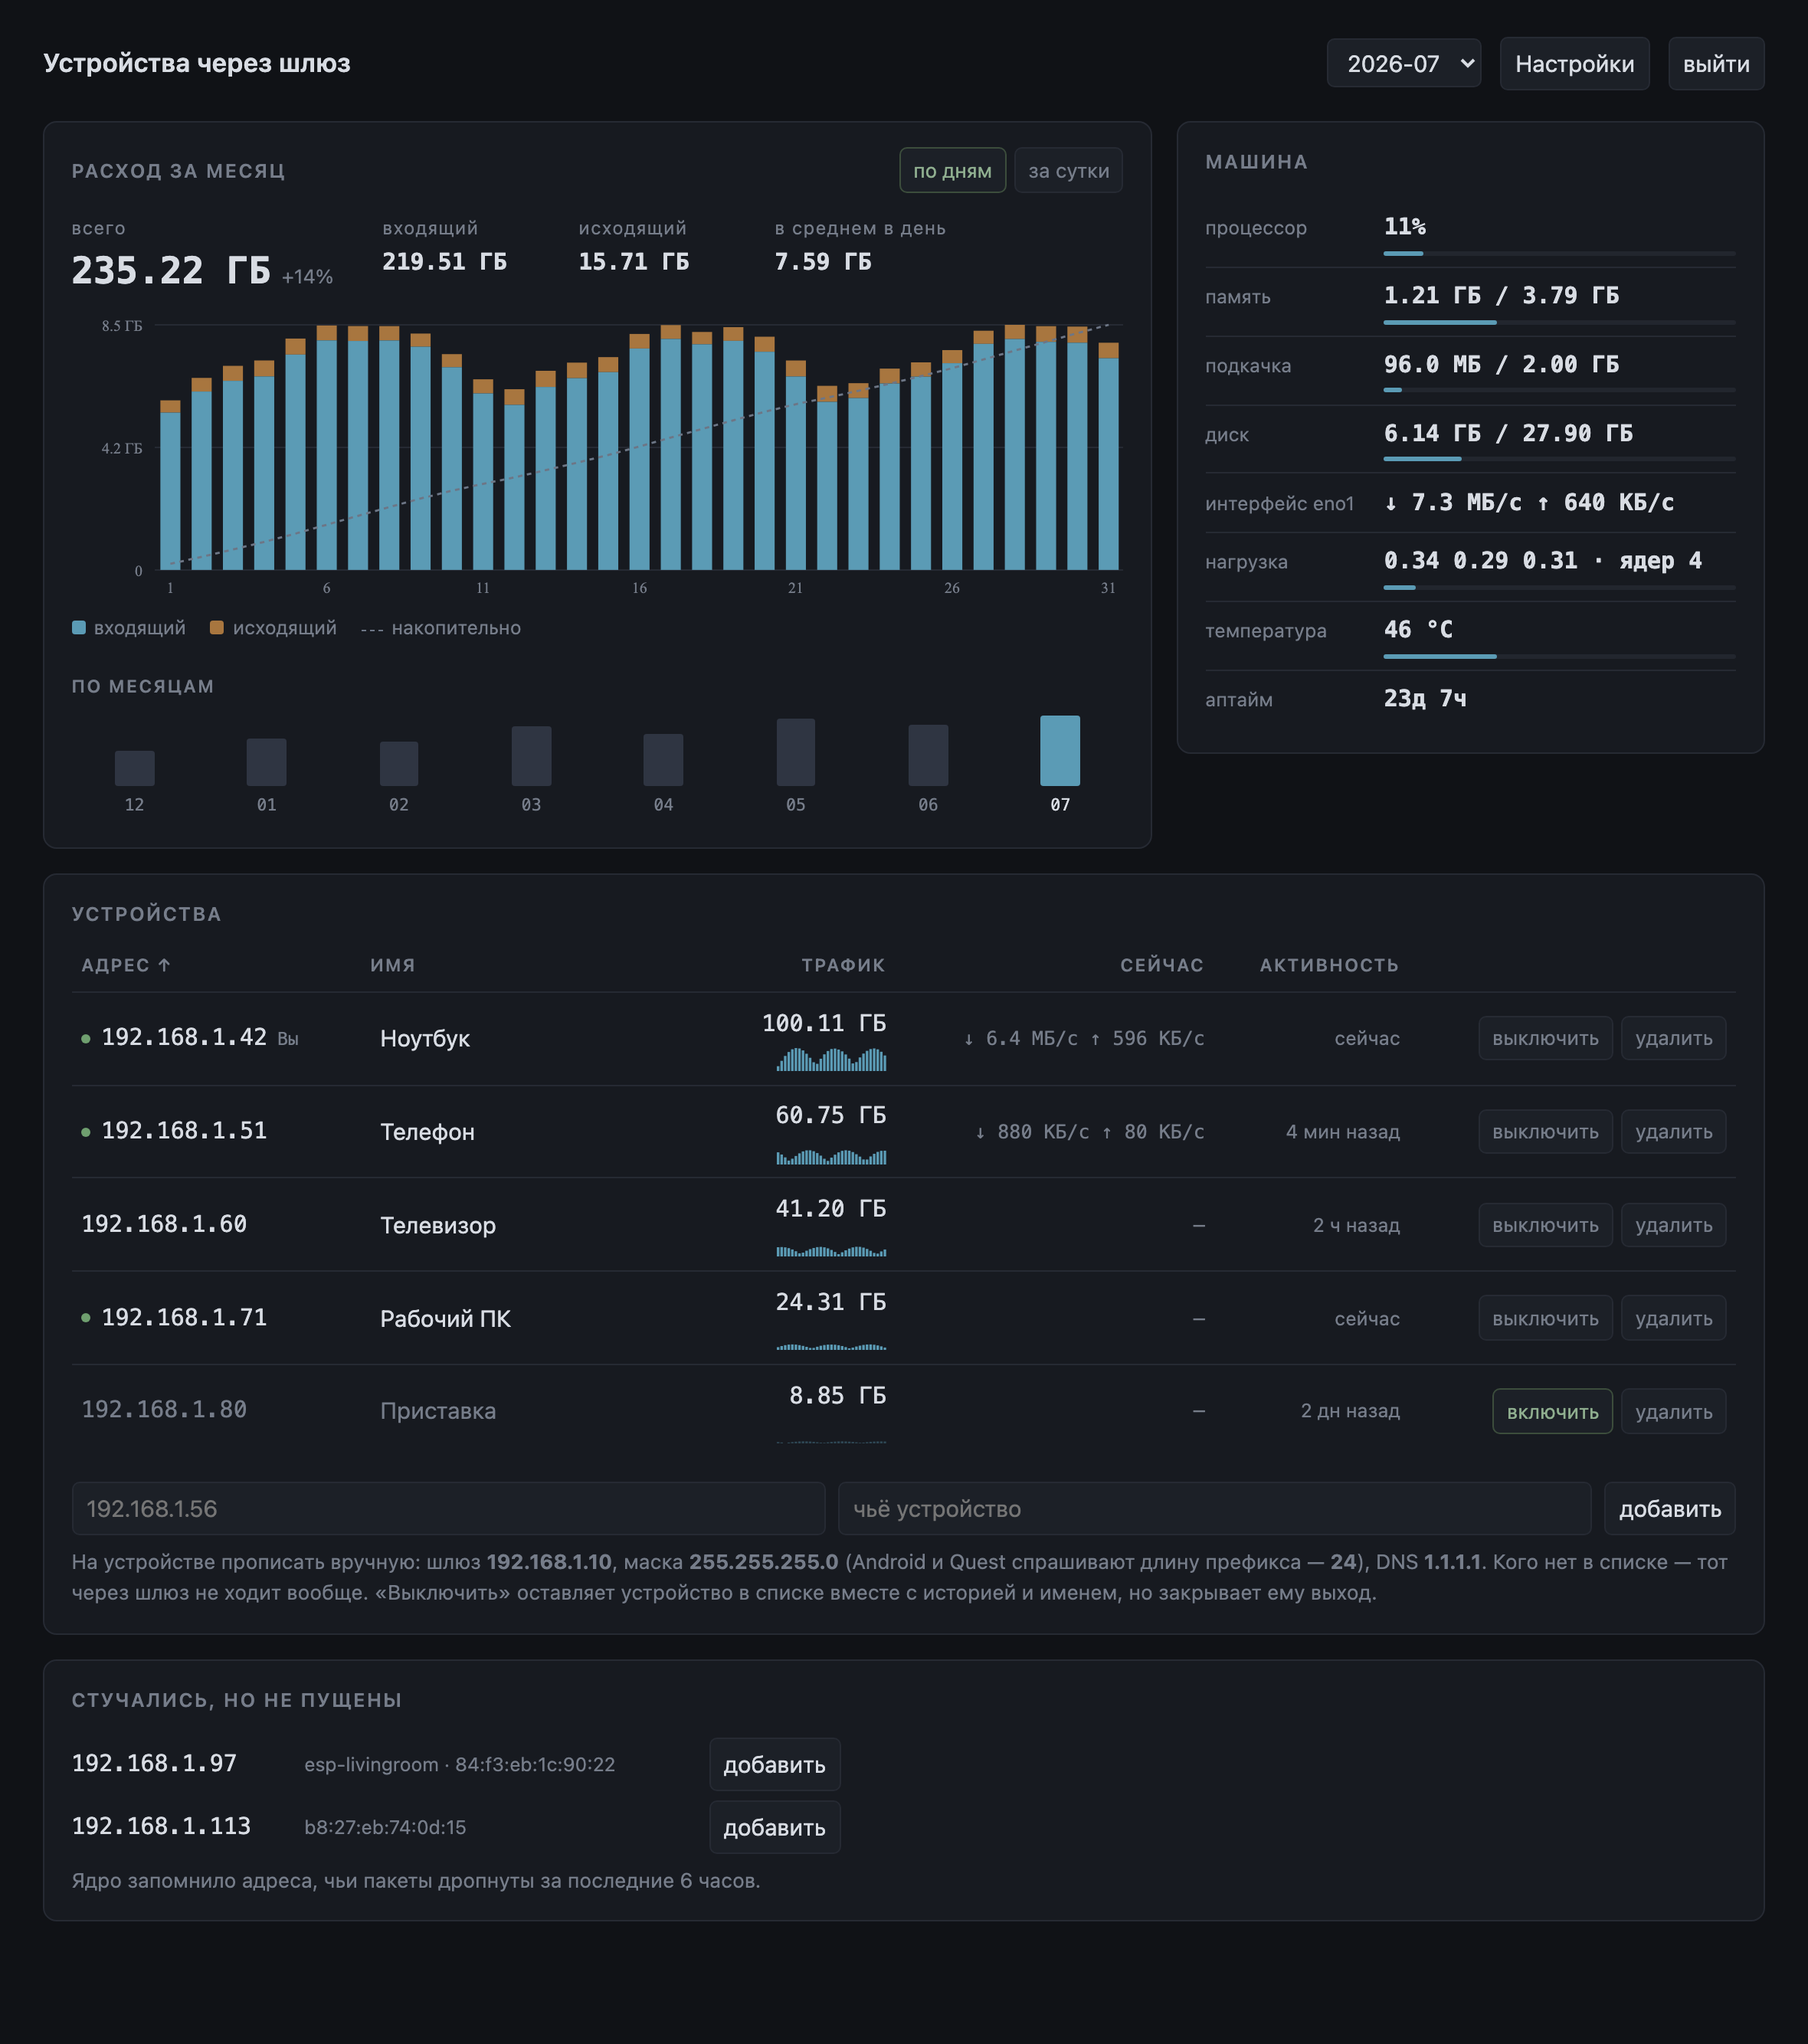
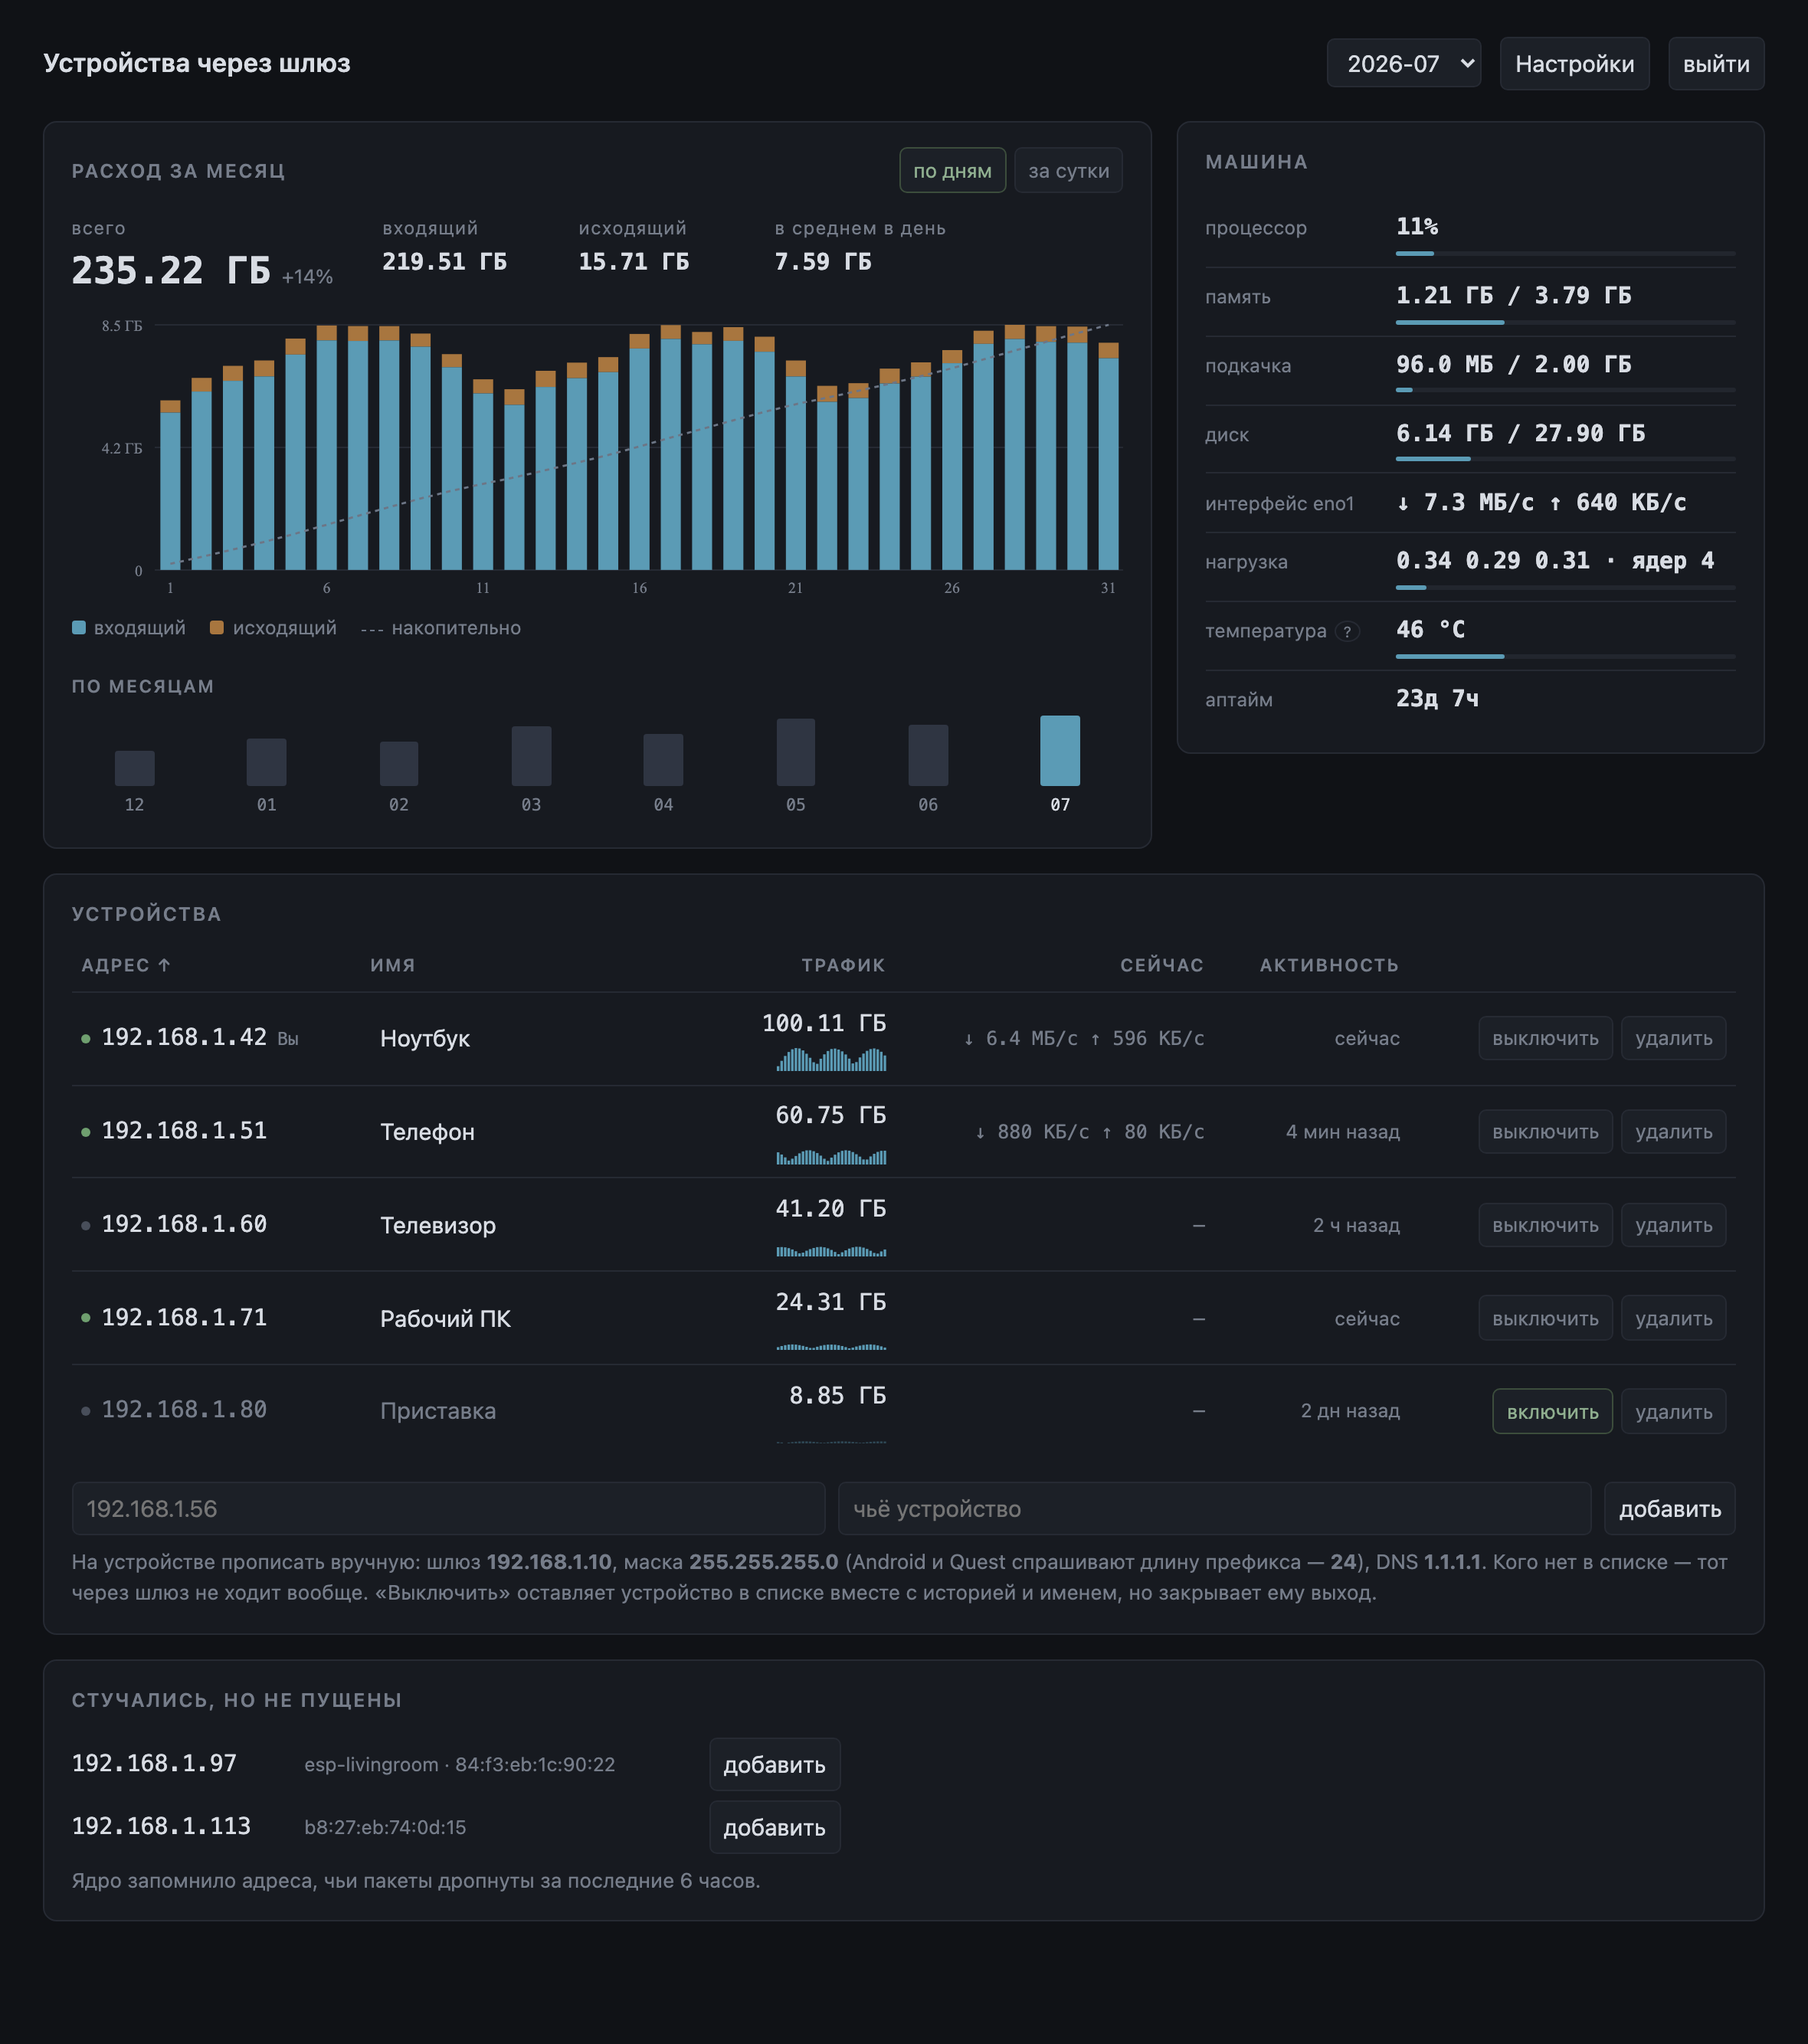
Скорость: целые байты в секунду. Температура: панель называет датчик. Кружок у всех устройств

Changed region(s): [[0.7733, 0.1244, 0.9589, 0.3111], [0.0619, 0.6844, 0.1547, 0.7155], [0.0619, 0.5911, 0.1547, 0.6222]]

diff --git a/panel.py b/panel.py
@@ -194,6 +194,9 @@ STRINGS = {
         "sUptime": "аптайм",
         "cores": "ядер {n}",
         "sysNone": "эта система не отдаёт метрики",
+        "tempWhat": "Датчик {n} — самый горячий из тех, что ядро показывает "
+                    "в /sys/class/thermal. Их несколько, и меряют они разное: "
+                    "пакет процессора, чипсет, диск.",
         "perSec": "/с",
         "dShort": "д",
         "hShort": "ч",
@@ -301,6 +304,9 @@ STRINGS = {
         "sUptime": "uptime",
         "cores": "{n} cores",
         "sysNone": "this system exposes no metrics",
+        "tempWhat": "Sensor {n} — the warmest of the ones the kernel exposes in "
+                    "/sys/class/thermal. There are several, and they measure "
+                    "different things: the processor package, the chipset, a disk.",
         "perSec": "/s",
         "dShort": "d",
         "hShort": "h",
@@ -622,7 +628,9 @@ def rates(moved, devs, now):
     _rate.clear()
     for d in devs:
         u, dn = _pend.get(d["ip"], (0, 0))
-        _rate[d["ip"]] = [u / dt, dn / dt]
+        # Whole bytes: a rate is a measurement over a ragged window, and the
+        # fraction is noise the page would faithfully print to ten decimals.
+        _rate[d["ip"]] = [round(u / dt), round(dn / dt)]
     _pend.clear()
 
 
@@ -771,21 +779,27 @@ def parse_meminfo(text):
 
 
 def temp_c(root="/sys/class/thermal"):
-    """The warmest sensor the kernel exposes, in °C. None when there are none.
+    """The warmest sensor the kernel exposes: (°C, what it calls itself).
 
-    Zones are milli-degrees and a machine has several; the hottest is the one
-    worth showing. Absurd readings are dropped — an empty or disabled zone
-    happily reports 0 or −273.
+    Zones are milli-degrees and a machine has several, measuring different
+    things — the processor package, the chipset, an NVMe drive. The hottest is
+    the one worth showing, but on its own it is an anonymous number, so the
+    zone's `type` goes with it and the panel names the sensor it picked.
+    Absurd readings are dropped: an empty or disabled zone happily reports 0
+    or −273.
     """
     best = None
     try:
-        zones = os.listdir(root)
+        zones = sorted(os.listdir(root))
     except OSError:
         return None
     for z in zones:
         t = _num(_read(f"{root}/{z}/temp"))
-        if t is not None and 0 < t / 1000 < 150:
-            best = max(best or 0, t / 1000)
+        if t is None or not 0 < t / 1000 < 150:
+            continue
+        if best is None or t / 1000 > best[0]:
+            # A zone without a type file is named after its directory.
+            best = (round(t / 1000, 1), _read(f"{root}/{z}/type").strip() or z)
     return best
 
 
@@ -808,7 +822,8 @@ def sysinfo():
             if pct is not None:
                 _sys["pct"] = pct
             if None not in net and _sys["net"] and None not in _sys["net"]:
-                _sys["bps"] = [max(0.0, (b - a) / dt) for a, b in zip(_sys["net"], net)]
+                _sys["bps"] = [round(max(0.0, (b - a) / dt))
+                               for a, b in zip(_sys["net"], net)]
             _sys["at"], _sys["cpu"], _sys["net"] = now, cpu, net
         mem = parse_meminfo(_read("/proc/meminfo"))
         try:
@@ -1054,8 +1069,10 @@ PAGE_T = """<!doctype html><meta charset=utf-8>
  .mo.cur i{background:var(--down)}
  .mo span{font-size:.68rem;color:var(--dim);font-family:ui-monospace,monospace}
  .mo.cur span{color:var(--fg)}
- .srow{display:grid;grid-template-columns:6.5rem minmax(0,1fr);gap:.2rem .8rem;
+ .srow{display:grid;grid-template-columns:7rem minmax(0,1fr);gap:.2rem .8rem;
        align-items:baseline;padding:.45rem 0;border-bottom:1px solid var(--line)}
+ .q{margin-left:.3rem;padding:0 .3rem;border:1px solid var(--line);border-radius:50%;
+    color:var(--dim);font-size:.62rem;font-style:normal;cursor:help}
  .srow:last-child{border-bottom:0}
  .srow>span{font-size:.78rem;color:var(--dim)}
  /* Beats .num's nowrap: the load line carries the core count and an interface
@@ -1063,8 +1080,11 @@ PAGE_T = """<!doctype html><meta charset=utf-8>
  .srow b{white-space:normal;overflow-wrap:anywhere}
  .meter{grid-column:2;height:3px;border-radius:2px;background:#22262e}
  .meter i{display:block;height:100%;border-radius:2px;background:var(--down)}
+ /* Every row carries the dot, so the column keeps its shape and the eye reads
+    a colour change rather than something appearing out of nowhere. */
  .dot{display:inline-block;width:6px;height:6px;border-radius:50%;
-      background:#6f9f6f;margin-right:.45rem;vertical-align:middle}
+      background:#484e5a;margin-right:.45rem;vertical-align:middle}
+ .dot.live{background:#6f9f6f}
  table{width:100%;border-collapse:collapse}
  th{font-size:.72rem;font-weight:600;letter-spacing:.08em;text-transform:uppercase;
     color:var(--dim);text-align:left;padding:0 .4rem .5rem;border-bottom:1px solid var(--line)}
@@ -1137,7 +1157,7 @@ PAGE_T = """<!doctype html><meta charset=utf-8>
   td:nth-child(2){flex:1 1 8rem}
   td.r{text-align:left}
   .spark{display:none}
-  .srow{grid-template-columns:6.5rem minmax(0,1fr)}
+  .srow{grid-template-columns:7rem minmax(0,1fr)}
   .act{justify-content:flex-start}
   /* Too narrow to hang off the corner: a sheet at the bottom instead, so it
      never covers the button that opened it. */
@@ -1232,7 +1252,9 @@ PAGE_T = """<!doctype html><meta charset=utf-8>
 <script>
 const T = {{T_JSON}};
 const esc = s => (s||'').replace(/[<&">]/g, c => ({'<':'&lt;','&':'&amp;','"':'&quot;','>':'&gt;'}[c]));
-const fmt = b => b < 1024 ? b + T.b
+// Math.round on the first branch: the others end in toFixed, but a rate is a
+// float and bare bytes would print as 957.4611172333846.
+const fmt = b => b < 1024 ? Math.round(b) + T.b
   : b < 1048576 ? (b/1024).toFixed(0) + T.kb
   : b < 1073741824 ? (b/1048576).toFixed(1) + T.mb
   : (b/1073741824).toFixed(2) + T.gb;
@@ -1322,6 +1344,8 @@ const strip = () => {
     + `</i><span>${m[0].slice(5)}</span></button>`).join('') + `</div>`;
 };
 
+// A number nobody can interpret is not a metric. Hover says which sensor.
+const q = title => `<i class=q title="${esc(title)}">?</i>`;
 const meter = (pct, warn) => `<div class=meter><i style="width:${Math.min(100, Math.max(0, pct)).toFixed(0)}%`
   + `${pct >= warn ? ';background:var(--warn)' : ''}"></i></div>`;
 const srow = (label, val, pct, warn) => `<div class=srow><span>${label}</span>`
@@ -1341,7 +1365,8 @@ const machine = s => {
   if (s.load) h += srow(T.sLoad, s.load.map(x => x.toFixed(2)).join('  ')
       + (s.cores ? '  · ' + n(T.cores, s.cores) : ''),
       s.cores ? s.load[0]/s.cores*100 : null, 100);
-  if (s.temp) h += srow(T.sTemp, s.temp.toFixed(0) + ' °C', (s.temp-30)/50*100, 80);
+  if (s.temp) h += srow(T.sTemp + q(n(T.tempWhat, s.temp[1])),
+                        s.temp[0].toFixed(0) + ' °C', (s.temp[0]-30)/50*100, 80);
   if (s.up) h += srow(T.sUptime, upfmt(s.up), null);
   return h || `<p class=hint>${T.sysNone}</p>`;
 };
@@ -1403,7 +1428,7 @@ const draw = () => {
     const t = x.up + x.down, me = x.ip === S.you, r = x.rate[0] + x.rate[1];
     return `<tr class="${x.on ? '' : 'off'}${x.ip === sel ? ' pick' : ''}">`
      + `<td class=ip title="${esc(x.mac)}" onclick="pickDev('${esc(x.ip)}')">`
-     + `${r > 0 || (x.seen && S.now - x.seen < fresh) ? '<i class=dot></i>' : ''}`
+     + `<i class="dot${r > 0 || (x.seen && S.now - x.seen < fresh) ? ' live' : ''}"></i>`
      + `${esc(x.ip)}${me ? `<span class=me>${T.youAre}</span>` : ''}</td>`
      + `<td><input value="${esc(x.name)}" placeholder="${esc(x.host || T.phName)}" `
      + `onchange="setName('${esc(x.ip)}',this.value)"></td>`
@@ -1670,9 +1695,12 @@ def selftest():
     rates({"10.0.0.5": [100, 400]}, devs, 1000.5)
     assert _rate == {}, "half a second is not a window"
     rates({"10.0.0.5": [100, 400]}, devs, 1010.0)
-    assert _rate == {"10.0.0.5": [20.0, 80.0]}, "the held bytes must land in the rate"
+    assert _rate == {"10.0.0.5": [20, 80]}, "the held bytes must land in the rate"
     rates({}, devs, 1020.0)
-    assert _rate == {"10.0.0.5": [0.0, 0.0]}, "a silent device must fall back to zero"
+    assert _rate == {"10.0.0.5": [0, 0]}, "a silent device must fall back to zero"
+    # Whole bytes, or the page prints 957.4611172333846 B/s.
+    rates({"10.0.0.5": [1, 2]}, devs, 1023.0)
+    assert all(isinstance(v, int) for v in _rate["10.0.0.5"]), "a rate must be whole"
 
     _hours.clear()
     note_hour({"10.0.0.5": [5, 5]}, "2026-08-01 10")
@@ -1702,11 +1730,19 @@ def selftest():
     assert parse_meminfo("") == {}
 
     with tempfile.TemporaryDirectory() as td:
-        os.mkdir(f"{td}/thermal_zone0")
-        os.mkdir(f"{td}/thermal_zone1")
-        open(f"{td}/thermal_zone0/temp", "w").write("41200\n")
-        open(f"{td}/thermal_zone1/temp", "w").write("53900\n")
-        assert temp_c(td) == 53.9, "the warmest sensor is the one worth showing"
+        for z, t in (("thermal_zone0", "41200"), ("thermal_zone1", "53900")):
+            os.mkdir(f"{td}/{z}")
+            with open(f"{td}/{z}/temp", "w") as f:
+                f.write(t + "\n")
+        with open(f"{td}/thermal_zone1/type", "w") as f:
+            f.write("x86_pkg_temp\n")
+        assert temp_c(td) == (53.9, "x86_pkg_temp"), \
+            "the warmest sensor is the one worth showing, and it has a name"
+        os.remove(f"{td}/thermal_zone1/type")
+        assert temp_c(td) == (53.9, "thermal_zone1"), "no type file, so the directory"
+        with open(f"{td}/thermal_zone0/temp", "w") as f:
+            f.write("-273000\n")   # a disabled zone
+        assert temp_c(td) == (53.9, "thermal_zone1"), "an absurd reading is not a sensor"
     assert temp_c("/no/such/place") is None
 
     arp = ("IP address       HW type  Flags  HW address         Mask  Device\n"

diff --git a/docs/design.md b/docs/design.md
@@ -173,6 +173,14 @@ answering questions about itself must not stop the accounting.
 Idle counts `iowait` as well. A gateway waiting on its disk is not busy, and
 calling it busy would light the meter for no reason.
 
+Temperature is the **warmest** of the kernel's thermal zones, and which zone
+that is depends entirely on the machine — `x86_pkg_temp` or `coretemp` on a
+typical x86 box, `cpu-thermal` on a Pi, sometimes `acpitz`, `nvme` or a wifi
+chip. A bare number would therefore mean something different on every host, so
+`temp_c` returns the zone's `type` alongside it and the panel puts it behind
+the `?` next to the row. Zones with no `type` file are named after their
+directory.
+
 ## Names for the unknown
 
 The blocked list is a column of bare addresses, which does not answer *whose
